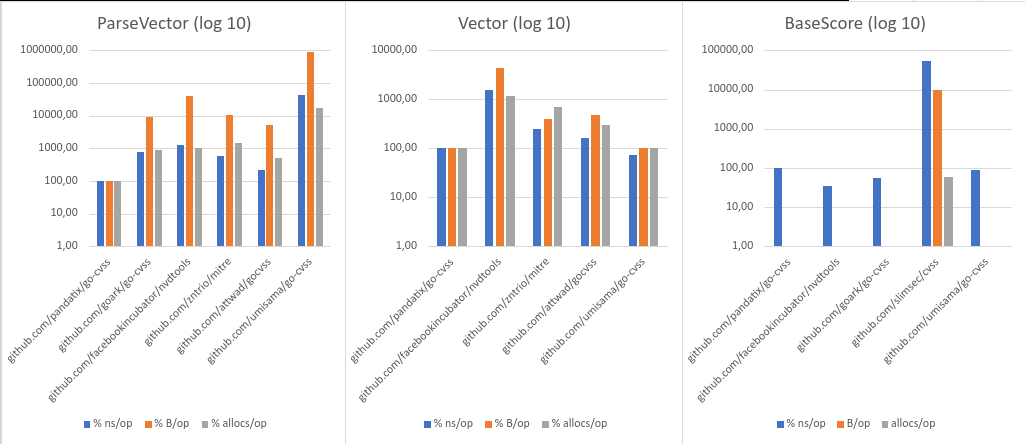
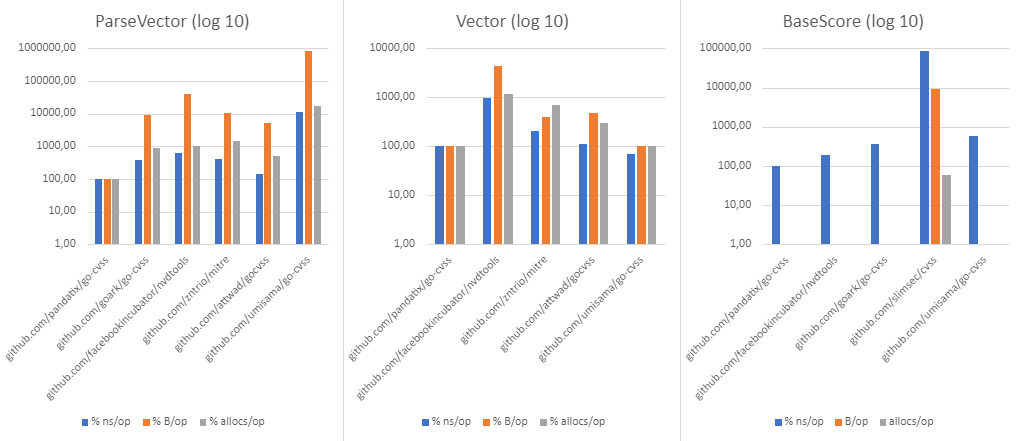
Update benchmarks

diff --git a/README.md b/README.md
@@ -81,15 +81,15 @@ We challenge any other Go implementation to do better :stuck_out_tongue_winking_
 goos: linux
 goarch: amd64
 pkg: github.com/pandatix/go-cvss/20
-cpu: Intel(R) Core(TM) i7-8086K CPU @ 4.00GHz
-BenchmarkParseVector_Base-12                 4747413           229.6 ns/op         4 B/op          1 allocs/op
-BenchmarkParseVector_WithTempAndEnv-12       2133370           534.0 ns/op         4 B/op          1 allocs/op
-BenchmarkCVSS20Vector-12                     4111411           277.7 ns/op        80 B/op          1 allocs/op
-BenchmarkCVSS20Get-12                      133722070           8.228 ns/op         0 B/op          0 allocs/op
-BenchmarkCVSS20Set-12                       81166387           13.80 ns/op         0 B/op          0 allocs/op
-BenchmarkCVSS20BaseScore-12                 21431910           51.54 ns/op         0 B/op          0 allocs/op
-BenchmarkCVSS20TemporalScore-12             13616814           93.52 ns/op         0 B/op          0 allocs/op
-BenchmarkCVSS20EnvironmentalScore-12         9342294           129.4 ns/op         0 B/op          0 allocs/op
+cpu: Intel(R) Core(TM) i5-2450M CPU @ 2.50GHz
+BenchmarkParseVector_Base-4                  2635287           455.0 ns/op         4 B/op          1 allocs/op
+BenchmarkParseVector_WithTempAndEnv-4         981721            1035 ns/op         4 B/op          1 allocs/op
+BenchmarkCVSS20Vector-4                      1605918           632.4 ns/op        80 B/op          1 allocs/op
+BenchmarkCVSS20Get-4                        68448986           17.32 ns/op         0 B/op          0 allocs/op
+BenchmarkCVSS20Set-4                        45166622           27.03 ns/op         0 B/op          0 allocs/op
+BenchmarkCVSS20BaseScore-4                  61978450           19.25 ns/op         0 B/op          0 allocs/op
+BenchmarkCVSS20TemporalScore-4              31636566           34.57 ns/op         0 B/op          0 allocs/op
+BenchmarkCVSS20EnvironmentalScore-4         20828653           56.03 ns/op         0 B/op          0 allocs/op
 ```
 
 ### CVSS v3.0
@@ -98,15 +98,15 @@ BenchmarkCVSS20EnvironmentalScore-12         9342294           129.4 ns/op      
 goos: linux
 goarch: amd64
 pkg: github.com/pandatix/go-cvss/30
-cpu: Intel(R) Core(TM) i7-8086K CPU @ 4.00GHz
-BenchmarkParseVector_Base-12                 3907210           261.5 ns/op         8 B/op          1 allocs/op
-BenchmarkParseVector_WithTempAndEnv-12       1847614           603.4 ns/op         8 B/op          1 allocs/op
-BenchmarkCVSS30Vector-12                     2339077           458.5 ns/op        96 B/op          1 allocs/op
-BenchmarkCVSS30Get-12                       93460929           12.16 ns/op         0 B/op          0 allocs/op
-BenchmarkCVSS30Set-12                       64881668           17.69 ns/op         0 B/op          0 allocs/op
-BenchmarkCVSS30BaseScore-12                  9224724           123.2 ns/op         0 B/op          0 allocs/op
-BenchmarkCVSS30TemporalScore-12              6468423           176.5 ns/op         0 B/op          0 allocs/op
-BenchmarkCVSS30EnvironmentalScore-12         4008021           307.8 ns/op         0 B/op          0 allocs/op
+cpu: Intel(R) Core(TM) i5-2450M CPU @ 2.50GHz
+BenchmarkParseVector_Base-4                  2175715           514.0 ns/op         8 B/op          1 allocs/op
+BenchmarkParseVector_WithTempAndEnv-4         879648            1186 ns/op         8 B/op          1 allocs/op
+BenchmarkCVSS30Vector-4                      1723250           825.3 ns/op        96 B/op          1 allocs/op
+BenchmarkCVSS30Get-4                        44361453           25.36 ns/op         0 B/op          0 allocs/op
+BenchmarkCVSS30Set-4                        34609831           36.39 ns/op         0 B/op          0 allocs/op
+BenchmarkCVSS30BaseScore-4                  32572166           37.33 ns/op         0 B/op          0 allocs/op
+BenchmarkCVSS30TemporalScore-4              16464278           72.51 ns/op         0 B/op          0 allocs/op
+BenchmarkCVSS30EnvironmentalScore-4         14459524           76.09 ns/op         0 B/op          0 allocs/op
 ```
 
 ### CVSS v3.1
@@ -115,15 +115,15 @@ BenchmarkCVSS30EnvironmentalScore-12         4008021           307.8 ns/op      
 goos: linux
 goarch: amd64
 pkg: github.com/pandatix/go-cvss/31
-cpu: Intel(R) Core(TM) i7-8086K CPU @ 4.00GHz
-BenchmarkParseVector_Base-12                 3851694           265.5 ns/op         8 B/op          1 allocs/op
-BenchmarkParseVector_WithTempAndEnv-12       1682426           687.1 ns/op         8 B/op          1 allocs/op
-BenchmarkCVSS31Vector-12                     2459060           472.3 ns/op        96 B/op          1 allocs/op
-BenchmarkCVSS31Get-12                       83839993           13.21 ns/op         0 B/op          0 allocs/op
-BenchmarkCVSS31Set-12                       67924599           18.03 ns/op         0 B/op          0 allocs/op
-BenchmarkCVSS31BaseScore-12                  9429159           136.5 ns/op         0 B/op          0 allocs/op
-BenchmarkCVSS31TemporalScore-12              5164994           214.0 ns/op         0 B/op          0 allocs/op
-BenchmarkCVSS31EnvironmentalScore-12         3830241           315.4 ns/op         0 B/op          0 allocs/op
+cpu: Intel(R) Core(TM) i5-2450M CPU @ 2.50GHz
+BenchmarkParseVector_Base-4                  2465984           487.7 ns/op         8 B/op          1 allocs/op
+BenchmarkParseVector_WithTempAndEnv-4        1059848            1248 ns/op         8 B/op          1 allocs/op
+BenchmarkCVSS31Vector-4                      1276906           910.4 ns/op        96 B/op          1 allocs/op
+BenchmarkCVSS31Get-4                        40836300           25.25 ns/op         0 B/op          0 allocs/op
+BenchmarkCVSS31Set-4                        31707997           35.68 ns/op         0 B/op          0 allocs/op
+BenchmarkCVSS31BaseScore-4                  31108681           39.70 ns/op         0 B/op          0 allocs/op
+BenchmarkCVSS31TemporalScore-4              15552028           73.01 ns/op         0 B/op          0 allocs/op
+BenchmarkCVSS31EnvironmentalScore-4         13541654           79.26 ns/op         0 B/op          0 allocs/op
 ```
 
 ### How it works
@@ -171,10 +171,6 @@ Benchmarks results for CVSS v3.
 <div align="center">
 	<img src="res/benchmarks-results-cvss-v3.png">
 </div>
-
-Based on those results, we can see that this implementation does not scores best for each metric, but the overall shows **it is better than others at parsing and vectorizing**. As those are the core of this Go module API, with support and compliance of both v2 and v3, we consider our Go module better to use.
-
-The _poor_ results of `BaseScore` is due to the internal optimizations that takes more cycles to fetch the values, but the time efficiency is still gigantic (between 10 and 30 ns/op in our experiment).
 
 ## Feedbacks
 
